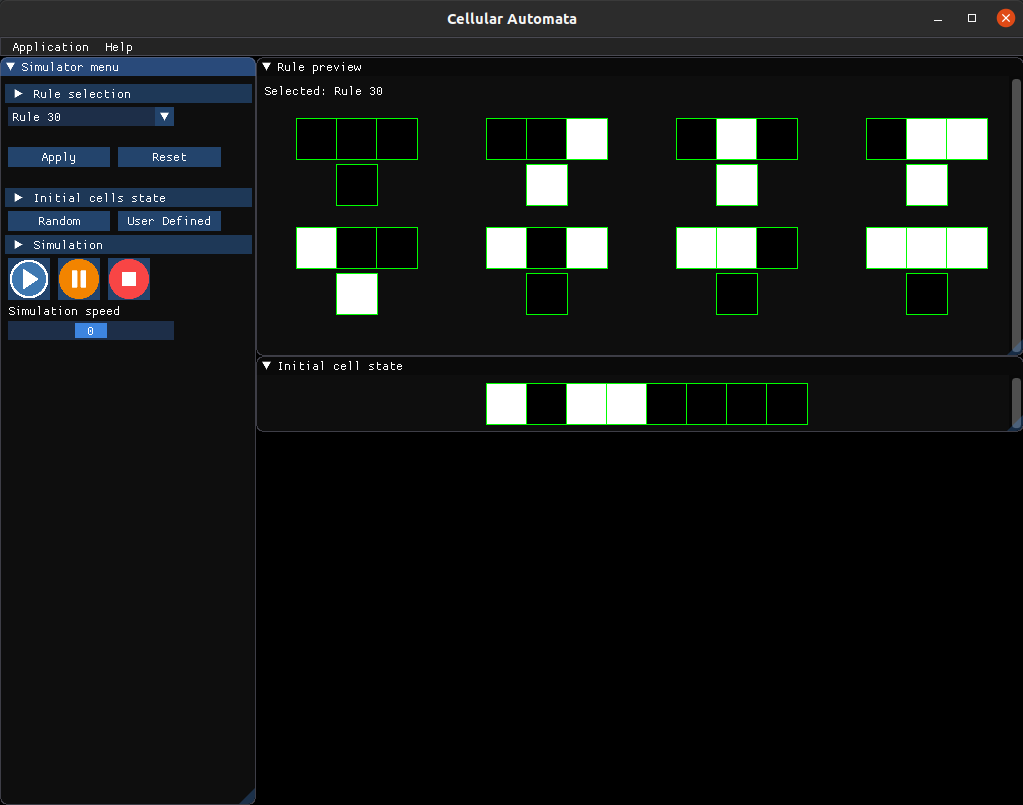
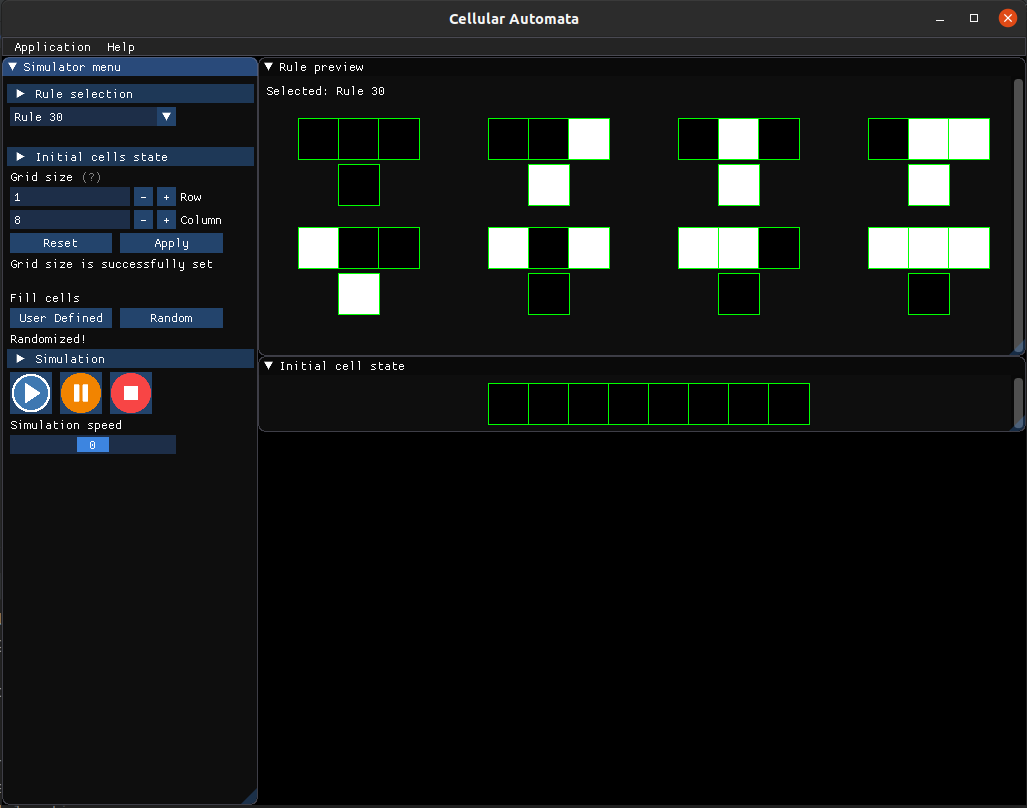
MainMenu: Add setting of grid size and adjust code accordingly

diff --git a/GUI/src/main_menu.cpp b/GUI/src/main_menu.cpp
@@ -4,13 +4,9 @@
 #include "GUI/src/assets.h"
 #include "GUI/src/utility.h"
 #include "ThirdParty/imgui/imgui-SFML.h"
+#include <memory>
 #include <utility>
 #include <iostream>
-
-MainMenu::MainMenu(const Rules &rules, Rule &current_rule, std::bitset<8> &initial_cell_state,
-                   SimulatorState &simulator_state)
-        : rules_{rules}, current_rule_{current_rule}, initial_cells_state_{initial_cell_state},
-          simulator_state_{simulator_state} {}
 
 void MainMenu::Show() {
     ImGui::SetNextWindowPos(Config::MainMenu::ORIGIN);
@@ -28,15 +24,15 @@ void MainMenu::RuleWindow() {
     ImGui::CollapsingHeader("Rule selection");
 
     static std::size_t current_rule_index{0};
-    const auto &current_rule_label = rules_.at(current_rule_index).first;
+    const auto &current_rule_label = rules_->at(current_rule_index).first;
 
     if (ImGui::BeginCombo("", current_rule_label.c_str())) {
-        for (std::size_t i{0}; i < rules_.size(); i++) {
+        for (std::size_t i{0}; i < rules_->size(); i++) {
             const bool is_selected{current_rule_index == i};
 
-            if (ImGui::Selectable(rules_.at(i).first.c_str(), is_selected)) {
+            if (ImGui::Selectable(rules_->at(i).first.c_str(), is_selected)) {
                 current_rule_index = i;
-                current_rule_ = rules_.at(i);
+                *selected_rule_ = rules_->at(i);
             }
 
             if (is_selected) {
@@ -47,21 +43,75 @@ void MainMenu::RuleWindow() {
     }
 
     Utility::AddVerticalSpacing(1);
-    ImGui::Button("Apply", Config::MainMenu::BUTTON_SIZE);
-    ImGui::SameLine();
-    ImGui::Button("Reset", Config::MainMenu::BUTTON_SIZE);
-    Utility::AddVerticalSpacing(1);
 }
 
 void MainMenu::InitialCellsStateWindow() {
     ImGui::CollapsingHeader("Initial cells state");
 
-    if (ImGui::Button("Random", Config::MainMenu::BUTTON_SIZE)) {
-        initial_cells_state_ = std::bitset<8>(Utility::GenerateRandomNumberInRange(0, 255));
-    }
+    ImGui::Text("Grid size");
     ImGui::SameLine();
+    Utility::HelpMarker(
+            "To display the initial cell state preview, firstly set the row and column size of the grid. "
+            "The minimal value of a row is 1 and of a column is 3. Maximum value of row and column is 300.");
+
+    ImGui::InputInt("Row", &row_);
+    ImGui::InputInt("Column", &column_);
+
+    ResetButton();
+    ImGui::SameLine();
+    ApplyButton();
+
+    ImGui::NewLine();
+
+    ImGui::Text("Fill cells");
     /// @todo: Add selectables or some input field to define a begin state
     ImGui::Button("User Defined", Config::MainMenu::BUTTON_SIZE);
+    ImGui::SameLine();
+    RandomButton();
+}
+
+void MainMenu::ApplyButton() {
+    static std::string grid_size_warning{"Enter grid size values"};
+    if (ImGui::Button("Apply", Config::MainMenu::BUTTON_SIZE)) {
+        if ((row_ < 0) || (column_ < 0)) {
+            grid_size_warning = "Grid size can not be a negative number";
+        } else if ((row_ == 0) || ((column_ < 3) && (column_ >= 0))) {
+            grid_size_warning = "Values are below minimal values!";
+        } else if ((row_ > 300) || (column_ > 300)) {
+            grid_size_warning = "Grid size is larger than 300";
+        } else {
+            grid_size_warning = "Grid size is successfully set";
+        }
+    }
+
+    ImGui::Text("%s", grid_size_warning.c_str());
+}
+
+void MainMenu::ResetButton() {
+    if (ImGui::Button("Reset", Config::MainMenu::BUTTON_SIZE)) {
+        row_ = 0;
+        column_ = 0;
+    }
+}
+
+void MainMenu::RandomButton() {
+    static std::string random_button_message{"Set initial cells state"};
+    if (ImGui::Button("Random", Config::MainMenu::BUTTON_SIZE)) {
+        if (!initial_cells_state_) {
+            initial_cells_state_ = std::make_unique<std::vector<bool>>();
+        }
+        if ((row_ == 0) && (column_ == 0)) {
+            random_button_message = "Grid size is not set";
+        } else {
+            std::bitset<300> initial_cell_state{Utility::GenerateRandomNumberInRange(0, column_)};
+            initial_cells_state_->reserve(column_);
+            for (std::size_t i{initial_cell_state.size()}; i > (initial_cell_state.size() - column_); i--) {
+                initial_cells_state_->emplace_back(initial_cell_state[i]);
+            }
+            random_button_message = "Randomized!";
+        }
+    }
+    ImGui::Text("%s", random_button_message.c_str());
 }
 
 void MainMenu::SimulationWindow() {
@@ -98,7 +148,6 @@ void MainMenu::PlayButton() {
 void MainMenu::PauseButton() {
     ImGui::PushID(1);
     if (ImGui::ImageButton(*Assets::GetPauseButton(), 1)) {
-        std::cout << "Hello from cute pouz button!" << std::endl;
         simulator_state_.pause = true;
     }
     ImGui::PopID();
@@ -108,10 +157,23 @@ void MainMenu::PauseButton() {
 void MainMenu::StopButton() {
     ImGui::PushID(2);
     if (ImGui::ImageButton(*Assets::GetStopButton(), 1)) {
-        std::cout << "Hello from cute stahp button!" << std::endl;
         simulator_state_.run = false;
         simulator_state_.stop = true;
     }
     ImGui::PopID();
     ImGui::SameLine();
+}
+
+MainMenu::MainMenu(SimulatorState &simulator_state) : simulator_state_(simulator_state) {}
+
+void MainMenu::SetRules(Rules &rules) {
+    rules_ = &rules;
+}
+
+void MainMenu::SetSelectedRule(Rule &selected_rule) {
+    selected_rule_ = &selected_rule;
+}
+
+const std::vector<bool> *MainMenu::GetInitialCellsState() const {
+    return initial_cells_state_.get();
 }

diff --git a/ThirdParty/imgui/imgui.h b/ThirdParty/imgui/imgui.h
@@ -137,7 +137,7 @@ struct ImGuiTextBuffer;             // Helper to hold and append into a text buf
 struct ImGuiTextFilter;             // Helper to parse and apply text filters (e.g. "aaaaa[,bbbbb][,ccccc]")
 
 // Enums/Flags (declared as int for compatibility with old C++, to allow using as flags and to not pollute the top of this file)
-// - Tip: Use your programming IDE navigation facilities on the names in the _central column_ below to find the actual flags/enum lists!
+// - Tip: Use your programming IDE navigation facilities on the names in the _central column_text_ below to find the actual flags/enum lists!
 //   In Visual Studio IDE: CTRL+comma ("Edit.NavigateTo") can follow symbols in comments, whereas CTRL+F12 ("Edit.GoToImplementation") cannot.
 //   With Visual Assist installed: ALT+G ("VAssistX.GoToImplementation") can also follow symbols in comments.
 typedef int ImGuiCol;               // -> enum ImGuiCol_             // Enum: A color identifier for styling
@@ -1198,7 +1198,7 @@ enum ImGuiCol_
 // Enumeration for PushStyleVar() / PopStyleVar() to temporarily modify the ImGuiStyle structure.
 // - The enum only refers to fields of ImGuiStyle which makes sense to be pushed/popped inside UI code.
 //   During initialization or between frames, feel free to just poke into ImGuiStyle directly.
-// - Tip: Use your programming IDE navigation facilities on the names in the _second column_ below to find the actual members and their description.
+// - Tip: Use your programming IDE navigation facilities on the names in the _second column_text_ below to find the actual members and their description.
 //   In Visual Studio IDE: CTRL+comma ("Edit.NavigateTo") can follow symbols in comments, whereas CTRL+F12 ("Edit.GoToImplementation") cannot.
 //   With Visual Assist installed: ALT+G ("VAssistX.GoToImplementation") can also follow symbols in comments.
 // - When changing this enum, you need to update the associated internal table GStyleVarInfo[] accordingly. This is where we link enum values to members offset/type.

diff --git a/runner.cpp b/runner.cpp
@@ -13,6 +13,8 @@
 #include <SFML/System/Clock.hpp>
 #include <SFML/Window/Event.hpp>
 
+void WaitForEvent(sf::RenderWindow &window);
+
 int main() {
     sf::RenderWindow window({Config::Screen::WIDTH, Config::Screen::HEIGHT}, "Cellular Automata");
     window.setVerticalSyncEnabled(true);
@@ -24,21 +26,21 @@ int main() {
     SimulatorState simulator_state;
 
     Assets::Initialize();
-    MainMenu main_menu{Data::rules, Data::selected_rule, Data::initial_cell_state, simulator_state};
-    RulePreview rule_preview{Data::selected_rule};
+    MainMenu main_menu{simulator_state};
+    RulePreview rule_preview;
     InitialCellsState initial_cell_state{Data::initial_cell_state};
     CellularAutomataAlgorithm algorithm;
+
+
     Viewport viewport{window};
     sf::Clock deltaClock;
 
+    main_menu.SetRules(Data::rules);
+    main_menu.SetSelectedRule(Data::selected_rule);
+    rule_preview.SetCurrentRule(Data::selected_rule);
+
     while (window.isOpen() && !Config::MenuBar::QUIT) {
-        sf::Event event{};
-        while (window.pollEvent(event)) {
-            ImGui::SFML::ProcessEvent(event);
-            if (event.type == sf::Event::Closed) {
-                window.close();
-            }
-        }
+        WaitForEvent(window);
         ImGui::SFML::Update(window, deltaClock.restart());
 
         MenuBar::Show();
@@ -78,4 +80,14 @@ int main() {
     ImGui::SFML::Shutdown();
 
     return 0;
+}
+
+void WaitForEvent(sf::RenderWindow &window) {
+    sf::Event event{};
+    while (window.pollEvent(event)) {
+        ImGui::SFML::ProcessEvent(event);
+        if (event.type == sf::Event::Closed) {
+            window.close();
+        }
+    }
 }

diff --git a/GUI/src/rule_preview.cpp b/GUI/src/rule_preview.cpp
@@ -6,14 +6,16 @@
 #include "ThirdParty/imgui/imgui.h"
 #include "ThirdParty/fmt/include/fmt/core.h"
 
-RulePreview::RulePreview(Rule &current_rule) : current_rule_(current_rule) {}
+void RulePreview::SetCurrentRule(Rule &current_rule) {
+    current_rule_ = &current_rule;
+}
 
 void RulePreview::Show() {
     ImGui::SetNextWindowPos(Config::RulePreview::ORIGIN);
     ImGui::SetNextWindowSize(Config::RulePreview::SIZE);
 
     ImGui::Begin("Rule preview");
-    ImGui::Text("%s", fmt::format("Selected: {}", current_rule_.first).c_str());
+    ImGui::Text("%s", fmt::format("Selected: {}", current_rule_->first).c_str());
     Utility::AddVerticalSpacing(2);
 
     for (std::size_t row{0}; row <= 3; row++) {
@@ -61,7 +63,7 @@ void RulePreview::CreateNewStateCell(const std::size_t cell_index) {
 
     ImGui::SameLine(cell_offset, Config::Flag::NO_SPACING);
     ImGui::PushID(cell_index);
-    CellState::Visualize(current_rule_.second[cell_index]);
+    CellState::Visualize(current_rule_->second[cell_index]);
     ImGui::PopID();
 }
 
@@ -87,3 +89,4 @@ std::array<bool, 3> RulePreview::ReverseCellGroupBitOrder(const size_t cell_grou
             {cell_group_index_in_binary[2], cell_group_index_in_binary[1], cell_group_index_in_binary[0]};
     return binary;
 }
+

diff --git a/GUI/src/utility.h b/GUI/src/utility.h
@@ -14,14 +14,24 @@ namespace Utility {
 
     /// @attention If we pass a negative number, that number will overflow. As we are dealing with randomness, this is
     /// OK for the end range, but if the range start overflows it will probably hit an assert!
-    inline uint8_t GenerateRandomNumberInRange(uint8_t start, uint8_t end) {
+    inline uint GenerateRandomNumberInRange(uint start, uint end) {
         assert((start < end) && "Start has a greater value then end, but it shouldn't be!");
-        assert((start < 255) || (end < 255) && "Start or end number is greater than 255, but shouldn't be!");
         assert((start > 0) || (end > 0) && "Start or end number is negative, but shouldn't be!");
 
         time_t timer;
         srandom(time(&timer));
         return (random() % (start + 1 - end)) + end;
+    }
+
+    inline void HelpMarker(const std::string &desc) {
+        ImGui::TextDisabled("(?)");
+        if (ImGui::IsItemHovered()) {
+            ImGui::BeginTooltip();
+            ImGui::PushTextWrapPos(ImGui::GetFontSize() * 35.0f);
+            ImGui::TextUnformatted(desc.c_str());
+            ImGui::PopTextWrapPos();
+            ImGui::EndTooltip();
+        }
     }
 }
 

diff --git a/GUI/src/main_menu.h b/GUI/src/main_menu.h
@@ -1,12 +1,18 @@
 #ifndef GAMEOFLIFE_MAIN_COMPONENTS_SIMULATOR_MAIN_MENU_H_
 #define GAMEOFLIFE_MAIN_COMPONENTS_SIMULATOR_MAIN_MENU_H_
 
+#include <memory>
 #include "Simulator/src/data.h"
 
 class MainMenu {
 public:
-    MainMenu(const Rules &rules, Rule &current_rule, std::bitset<8> &initial_cell_state,
-             SimulatorState &simulator_state);
+    explicit MainMenu(SimulatorState &simulator_state);
+
+    void SetRules(Rules &rules);
+
+    void SetSelectedRule(Rule &selected_rule);
+
+    const std::vector<bool> *GetInitialCellsState() const;
 
     void Show();
 
@@ -25,10 +31,20 @@ private:
 
     void StopButton();
 
-    const Rules &rules_;
-    Rule &current_rule_;
-    std::bitset<8> &initial_cells_state_;
+    void RandomButton();
+
+    void ResetButton();
+
+    void ApplyButton();
+
+    Rules *rules_{nullptr};
+    Rule *selected_rule_{nullptr};
+    std::unique_ptr<std::vector<bool>> initial_cells_state_{nullptr};
     SimulatorState &simulator_state_;
+
+    int row_{1};
+    int column_{8};
+
 
 };
 

diff --git a/GUI/src/initial_cells_state.cpp b/GUI/src/initial_cells_state.cpp
@@ -4,8 +4,8 @@
 #include "ThirdParty/imgui/imgui.h"
 #include <algorithm>
 
-InitialCellsState::InitialCellsState(const std::bitset<8> &initial_cell_state)
-        : initial_cell_state_(initial_cell_state) {}
+InitialCellsState::InitialCellsState(std::bitset<8> &initial_cell_state)
+        : initial_cell_state_(&initial_cell_state) {}
 
 void InitialCellsState::Show() {
     ImGui::SetNextWindowPos(Config::InitialCellsState::ORIGIN);
@@ -18,10 +18,10 @@ void InitialCellsState::Show() {
 }
 
 void InitialCellsState::VisualizeInitialCellsState() const {
-    for (std::size_t i{0}; i < initial_cell_state_.size(); i++) {
+    for (std::size_t i{0}; i < initial_cell_state_->size(); i++) {
         ImGui::PushID(i);
         ImGui::SameLine(CalculateCellXPosition(i), Config::Flag::NO_SPACING);
-        CellState::Visualize(initial_cell_state_[i]);
+        CellState::Visualize((*initial_cell_state_)[i]);
         ImGui::PopID();
     }
 }

diff --git a/GUI/src/initial_cells_state.h b/GUI/src/initial_cells_state.h
@@ -5,7 +5,7 @@
 
 class InitialCellsState {
 public:
-    explicit InitialCellsState(const std::bitset<8> &initial_cell_state);
+    explicit InitialCellsState(std::bitset<8> &initial_cell_state);
 
     /// @brief Displays the "Initial cells state" window which contains cells initialized by the user or randomly.
     void Show();
@@ -15,7 +15,7 @@ private:
 
     [[nodiscard]] float CalculateCellXPosition(std::size_t i) const;
 
-    const std::bitset<8> &initial_cell_state_;
+    std::bitset<8> *initial_cell_state_{nullptr};
 };
 
 #endif //GAMEOFLIFE_GUI_SRC_INITIAL_CELL_STATE_H_

diff --git a/GUI/src/rule_preview.h b/GUI/src/rule_preview.h
@@ -7,7 +7,7 @@
 
 class RulePreview {
 public:
-    explicit RulePreview(Rule &current_rule);
+    void SetCurrentRule(Rule &current_rule);
 
     /// @brief Displays the rule preview window
     void Show();
@@ -29,7 +29,7 @@ private:
     /// most significant bit is at index 2 - the order is reversed and, therefore, the bit representation is not correct!
     CellNeighborhoodStates ReverseCellGroupBitOrder(std::size_t cell_group_index) const;
 
-    Rule &current_rule_;
+    Rule *current_rule_{nullptr};
 };
 
 #endif //GAMEOFLIFE_GUI_SRC_RULE_PREVIEW_H_

diff --git a/Simulator/src/cellular_automata_algorithm.h b/Simulator/src/cellular_automata_algorithm.h
@@ -28,5 +28,4 @@ private:
     CellStates previous_cell_generation_;
 };
 
-
 #endif //GAMEOFLIFE_CELLULAR_AUTOMATA_ALGORITHM_H
